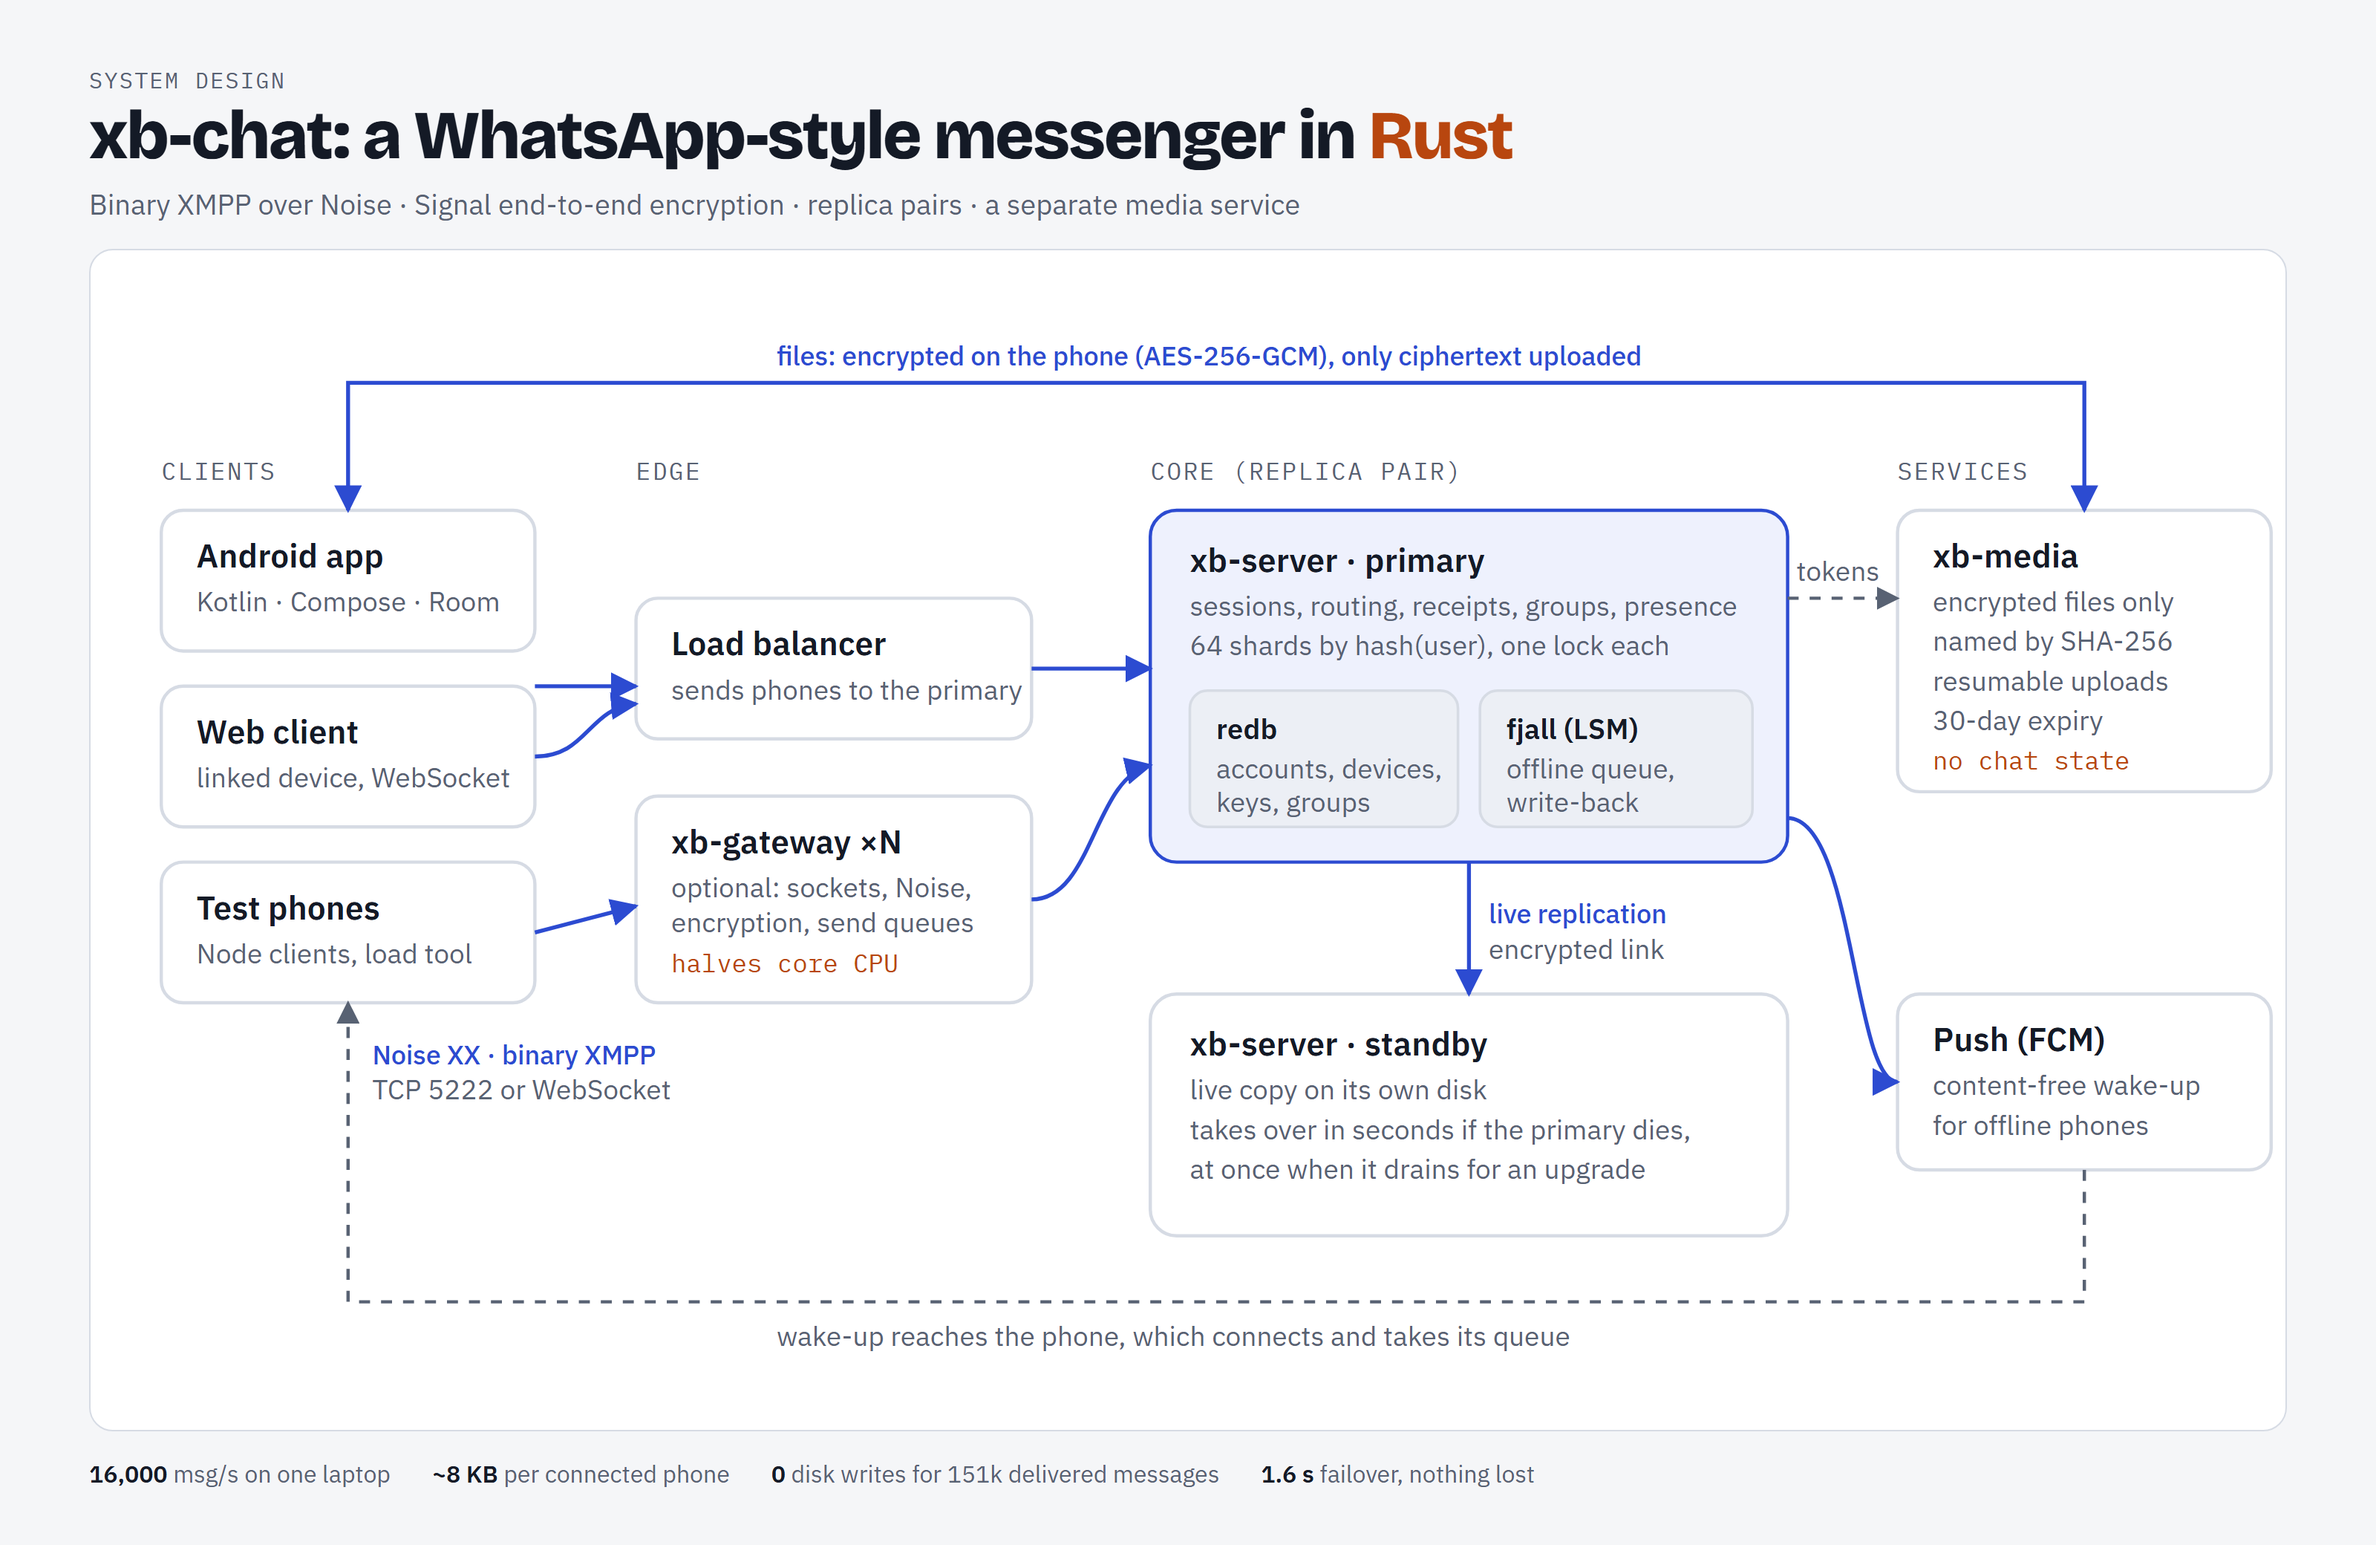
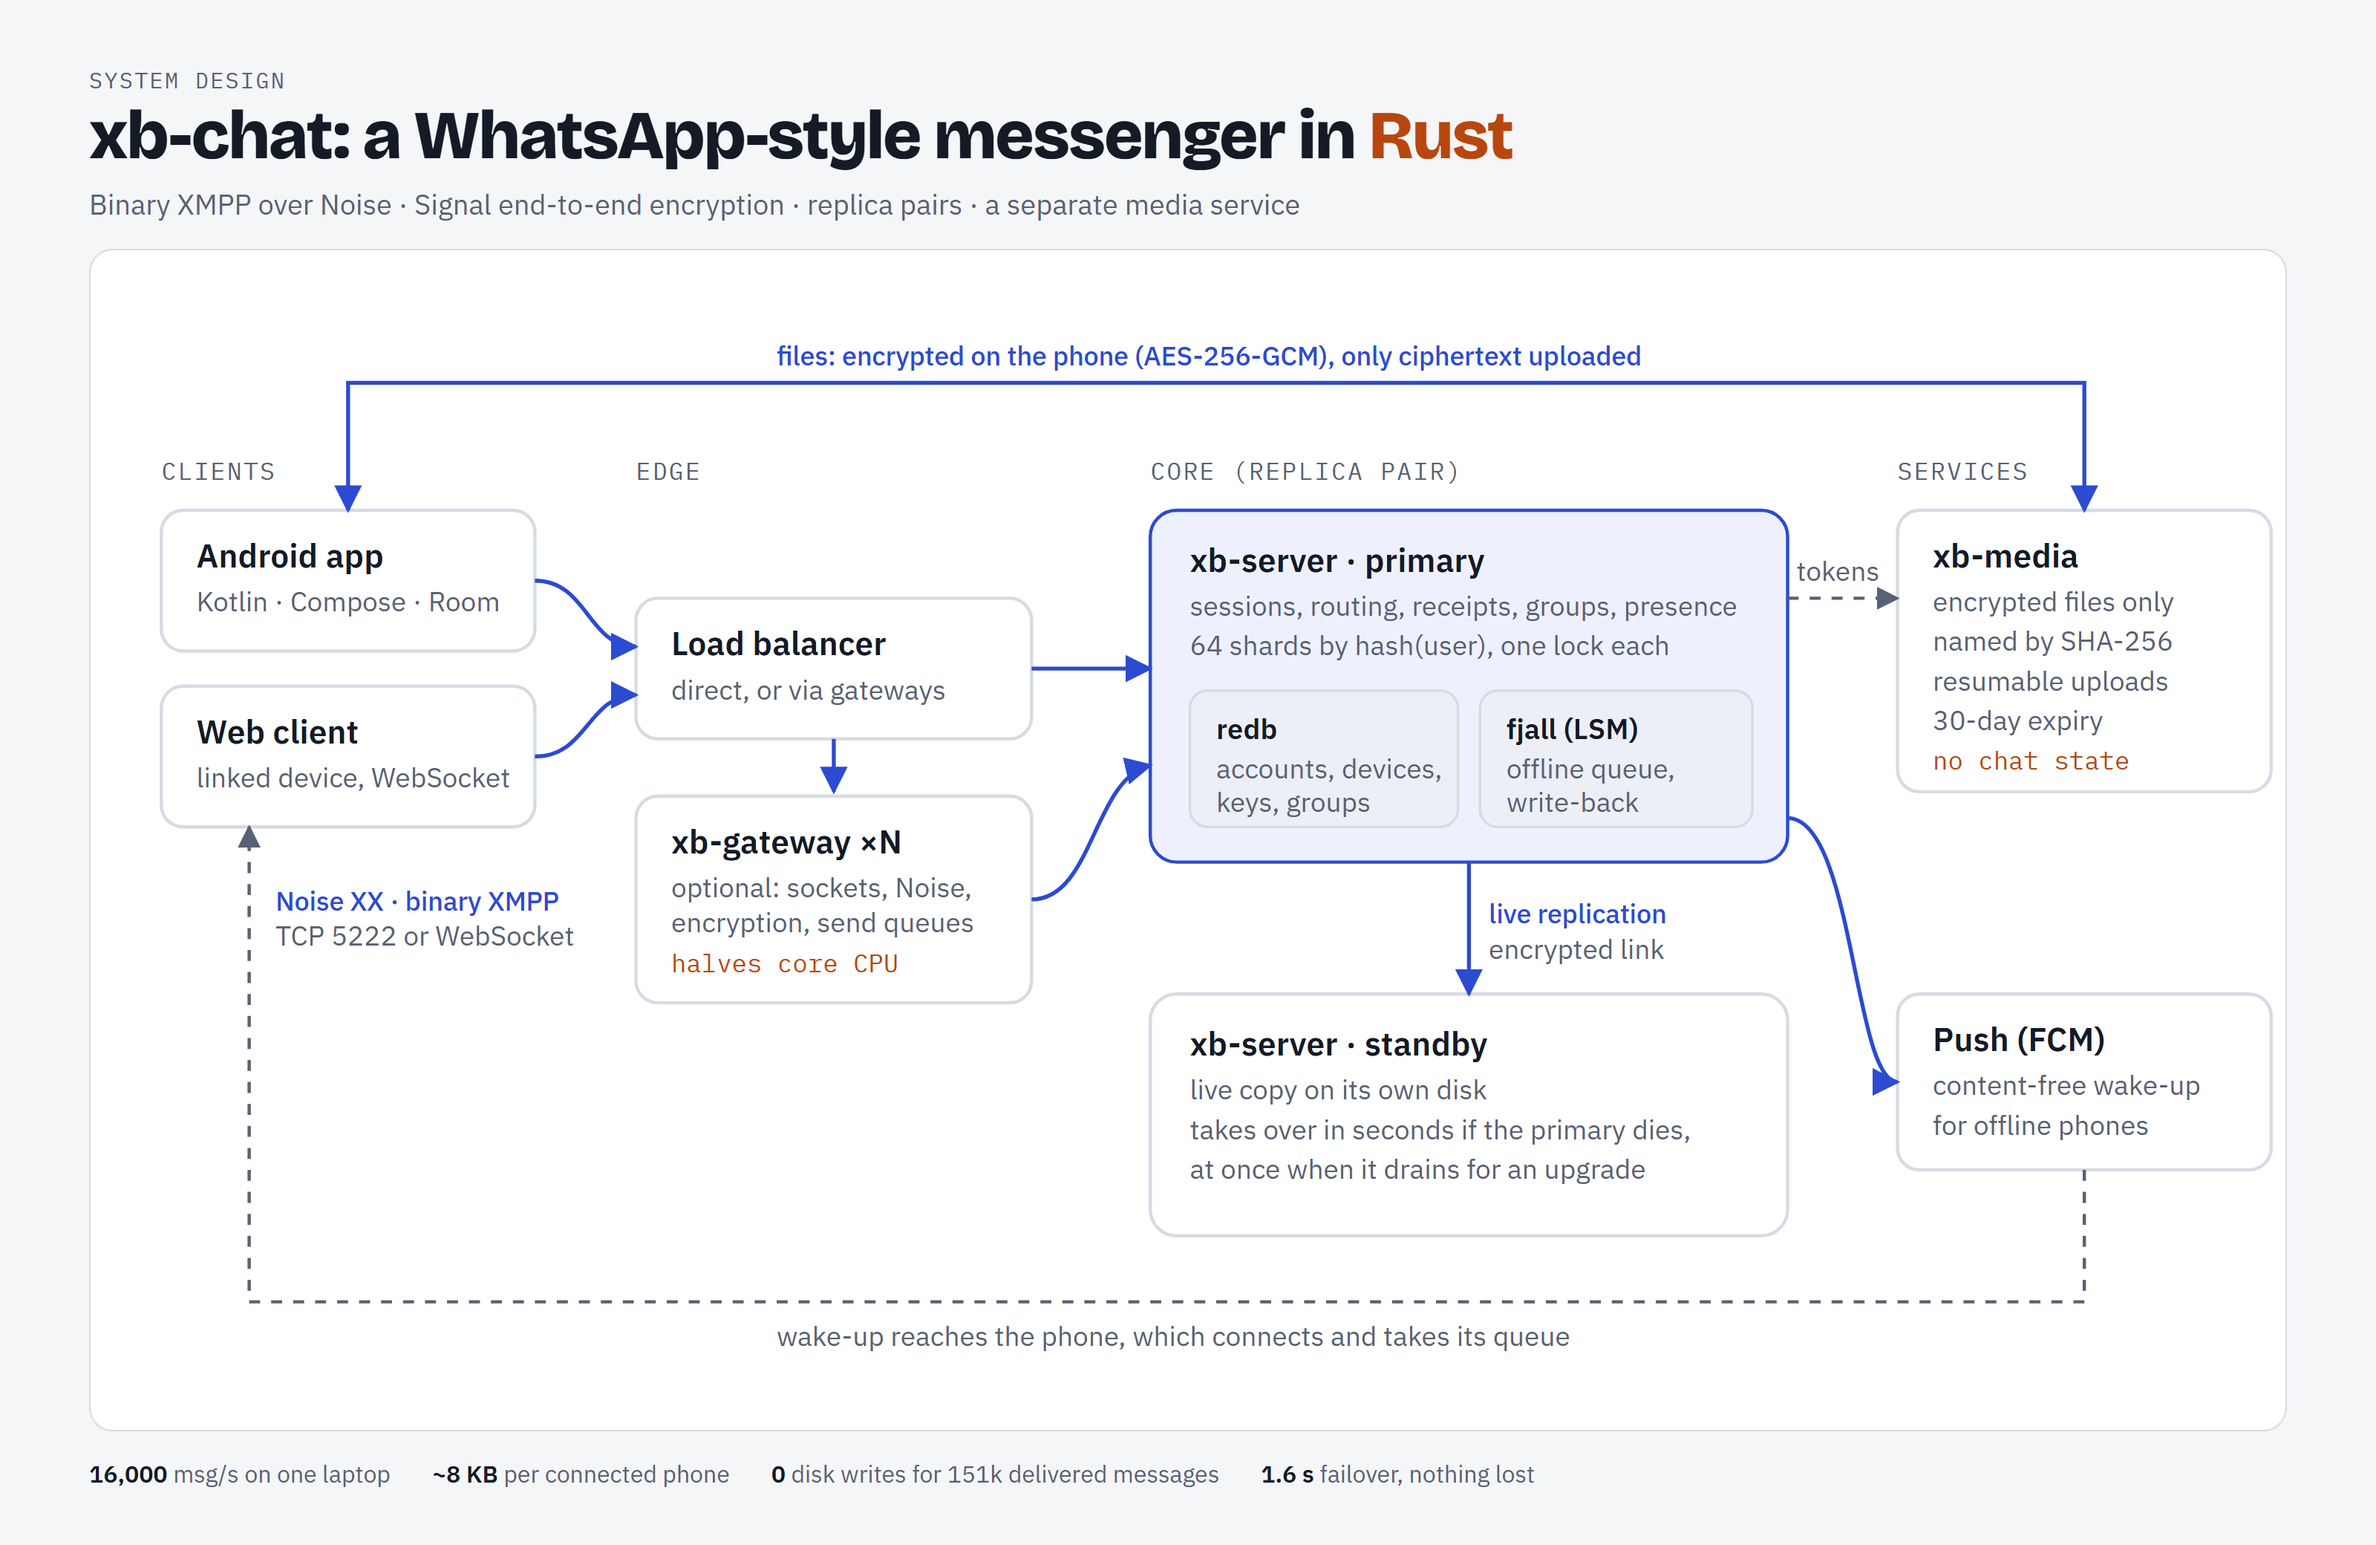
Remove learning material; diagram without test clients
- LESSONS.md and tools/poke.mjs were a personal reading guide and lesson
  tool, not part of the system.
- frame.rs and keys.rs: lesson references and Rust-tutorial comments
  replaced by plain comments (the code is unchanged).
- docs/system-design.png: production clients only (Android, web); the
  load balancer sends phones to the core directly or through gateways.

Changed region(s): [[0.0625, 0.5312, 0.2812, 0.625], [0.1562, 0.6562, 0.2812, 0.7188], [0.25, 0.4062, 0.4375, 0.4688]]

diff --git a/proto/src/frame.rs b/proto/src/frame.rs
@@ -8,8 +8,6 @@
 pub const MAX_FRAME: usize = 1024 * 1024;
 
 /// What can go wrong with frames.
-/// `#[derive(Debug, PartialEq)]` asks the compiler to write the code that
-/// prints it ({:?}) and compares it (==), so tests can check errors.
 #[derive(Debug, PartialEq)]
 pub enum FrameError {
     /// The other side announced a frame bigger than we accept.
@@ -17,17 +15,13 @@ pub enum FrameError {
 }
 
 /// Puts the 3-byte length in front of a payload, ready to send.
-///
-/// `&[u8]` is a *slice*: a borrowed view of some bytes (from a Vec, an
-/// array, a string…). We only need to read the payload, so we borrow it.
 pub fn encode(payload: &[u8]) -> Result<Vec<u8>, FrameError> {
     let n = payload.len();
     if n > MAX_FRAME {
         return Err(FrameError::TooLarge(n));
     }
-    // with_capacity: reserve room for 3 + n bytes up front.
     let mut out = Vec::with_capacity(3 + n);
-    out.push((n >> 16) as u8); // `as u8` keeps the lowest 8 bits
+    out.push((n >> 16) as u8);
     out.push((n >> 8) as u8);
     out.push(n as u8);
     out.extend_from_slice(payload);
@@ -42,15 +36,13 @@ pub struct FrameDecoder {
     max: usize,
 }
 
-// The methods of FrameDecoder.
 impl FrameDecoder {
-    /// A new, empty decoder. `Self` means "the type we're implementing", FrameDecoder.
+    /// A new, empty decoder that accepts frames up to `max` bytes.
     pub fn new(max: usize) -> Self {
         FrameDecoder { buf: Vec::new(), max }
     }
 
     /// Adds bytes that just arrived from the network.
-    /// `&mut self`: this method changes the decoder (its buffer grows).
     pub fn push(&mut self, bytes: &[u8]) {
         self.buf.extend_from_slice(bytes);
     }
@@ -61,43 +53,27 @@ impl FrameDecoder {
         self.buf.len()
     }
 
-    /// YOUR TURN: hand out the next complete frame, if there is one.
-    ///
-    /// Return:
-    ///   Ok(None)                    fewer than 3 bytes, or the frame isn't complete yet
-    ///   Err(FrameError::TooLarge(n)) the length says n bytes and n > self.max
-    ///   Ok(Some(payload))           a whole frame; also remove its 3 + n bytes from self.buf
-    ///
-    /// Steps (it's lesson 1's read_frame again, but on self.buf instead of a socket):
-    ///   1. if self.buf.len() < 3 → return Ok(None)
-    ///   2. n = the 3 length bytes, exactly like lesson 1 (self.buf[0], self.buf[1], self.buf[2])
-    ///   3. if n > self.max → return Err(FrameError::TooLarge(n))
-    ///   4. if self.buf.len() < 3 + n → return Ok(None)
-    ///   5. let payload = self.buf[3..3 + n].to_vec();   (copy bytes 3 up to 3+n)
-    ///   6. self.buf.drain(..3 + n);                       (remove the first 3+n bytes)
-    ///   7. Ok(Some(payload))
+    /// The next complete frame's payload, if one has arrived:
+    ///   Ok(None)                     fewer than 3 bytes, or the frame isn't complete yet
+    ///   Err(FrameError::TooLarge(n)) the length says n bytes, more than this decoder accepts
+    ///   Ok(Some(payload))            a whole frame, removed from the buffer
     pub fn next_frame(&mut self) -> Result<Option<Vec<u8>>, FrameError> {
         if self.buf.len() < 3 {
             return Ok(None);
         }
 
-        // read the length from the first 3 len
         let n = ((self.buf[0] as usize) << 16) | ((self.buf[1] as usize) << 8) | (self.buf[2] as usize);
 
-        // refuse frames that are too big
         if n > self.max {
             return Err(FrameError::TooLarge(n));
         }
 
-        // the length is known but is the whole frame here?
+        // The length is known: is the whole frame here yet?
         if self.buf.len() < 3 + n {
             return Ok(None);
         }
 
-        // copy the payload out (the bytes after the 3 length bytes.)
         let payload = self.buf[3..3 + n].to_vec();
-
-        // remove this frame from the buffer, so the next call starts at the next frame.
         self.buf.drain(..3 + n);
 
         // Empty again: give the memory back (an idle connection keeps none).
@@ -109,11 +85,10 @@ impl FrameDecoder {
     }
 }
 
-// Tests: compiled only for `cargo test`. They check the same things as the
-// Node test "frame decoder reassembles split and merged chunks".
+// The same checks as the Node test "frame decoder reassembles split and merged chunks".
 #[cfg(test)]
 mod tests {
-    use super::*; // everything from the module above
+    use super::*;
 
     #[test]
     fn encode_puts_the_length_first() {
@@ -152,7 +127,6 @@ mod tests {
         let mut frames = Vec::new();
         for piece in all.chunks(7) {
             d.push(piece);
-            // `while let`: keep taking frames as long as there are complete ones.
             while let Ok(Some(f)) = d.next_frame() {
                 frames.push(f);
             }

diff --git a/core/src/keys.rs b/core/src/keys.rs
@@ -21,7 +21,7 @@ pub fn load_or_create(path: &str) -> io::Result<([u8; 32], [u8; 32])> {
             let decoded = std::str::from_utf8(&raw).ok().and_then(|t| B64.decode(t.trim()).ok());
             let bytes = match decoded {
                 Some(b) => b,
-                // Lesson 3's format: 64 raw bytes, private then public.
+                // An older format: 64 raw bytes, private then public.
                 None if raw.len() == 64 => raw[..32].to_vec(),
                 None => return Err(bad(format!("{path}: not a base64 key"))),
             };
